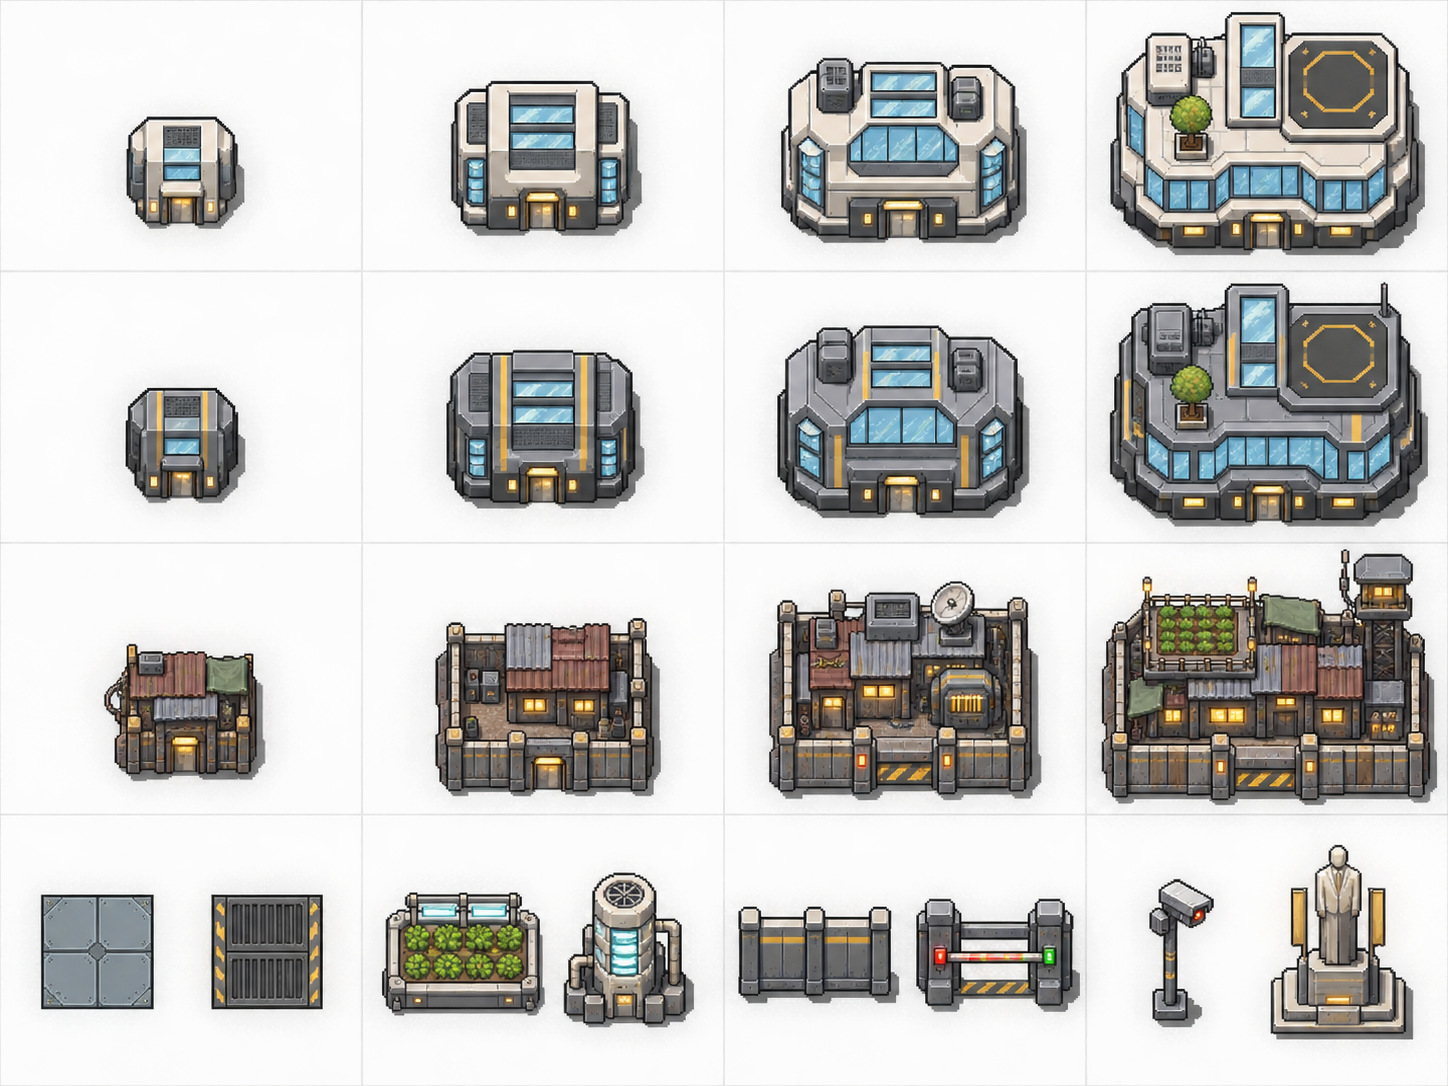
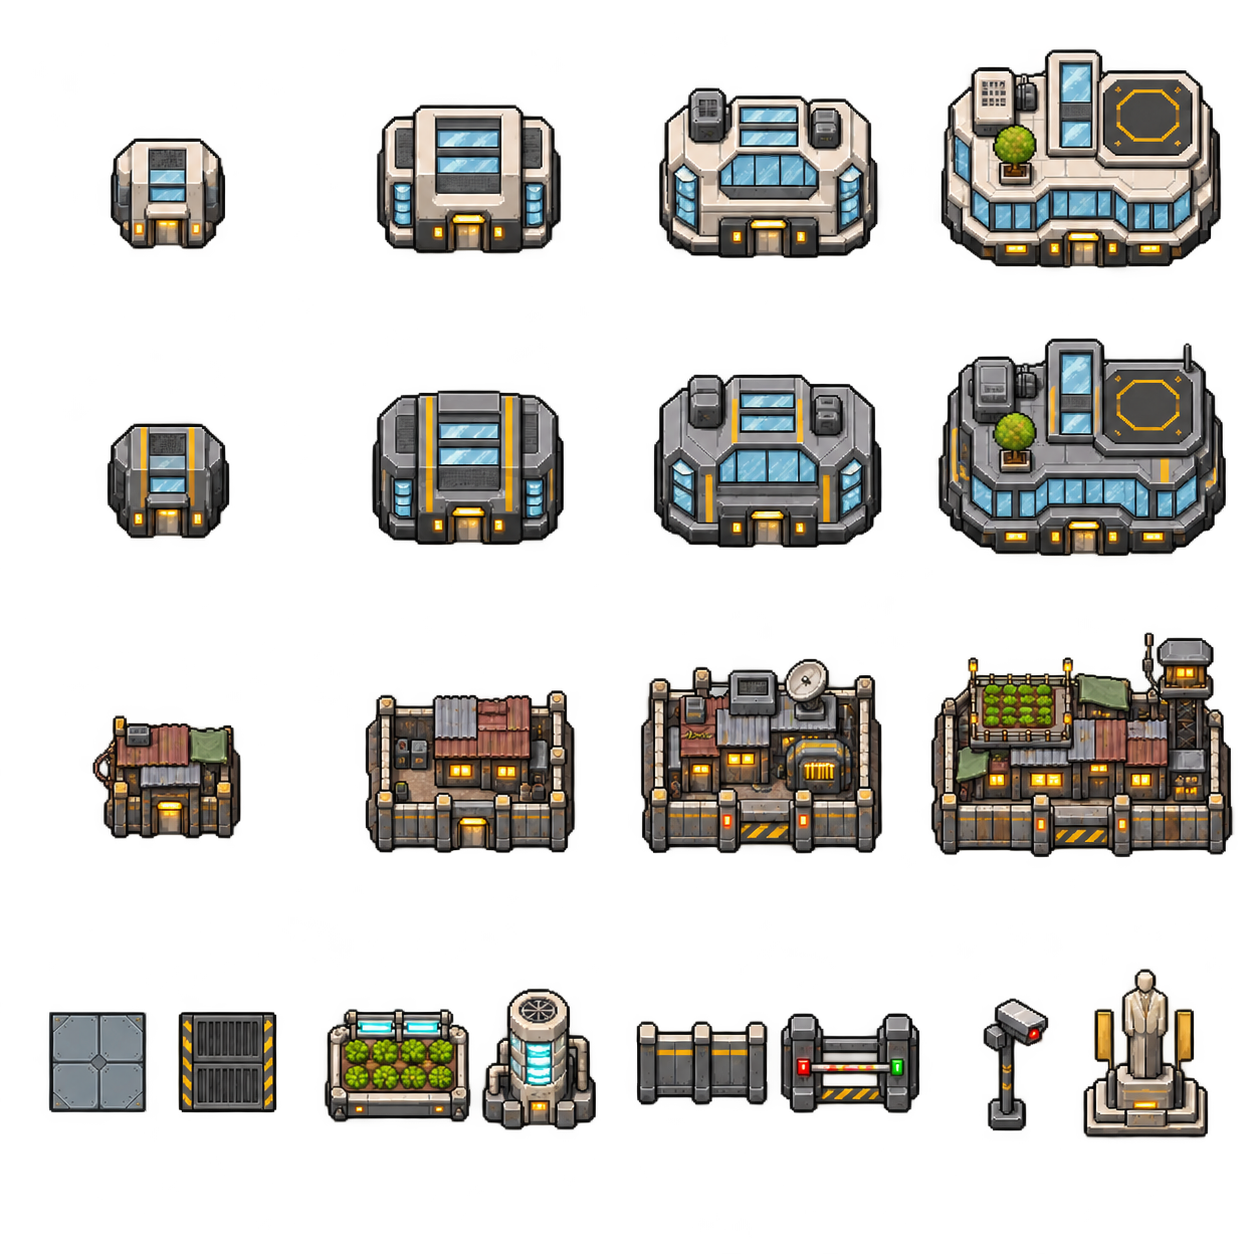
Art: transparent re-render of the housing sheet (no halo); slicer skips background removal when the sheet is transparent
Claude-Session: https://claude.ai/code/session_01Bh8AJWdcVLFR5ZpwLUM8bs

diff --git a/scripts/slice-assets.py b/scripts/slice-assets.py
@@ -137,6 +137,7 @@ for i, names in enumerate(EMBLEMS, 1):
 # This sheet came back on a light background with grid lines: flood-fill the background out first.
 a = sheet('sheet-housing.png').astype(int)
 H, W = a.shape[:2]
+transparent = (a[..., 3] < 20).mean() > 0.3  # re-generated sheet has a real transparent background
 rgb = a[..., :3]
 bgish = (rgb.min(-1) > 120) & ((rgb.max(-1) - rgb.min(-1)) < 16)  # background + soft drop shadow
 blab, _ = ndimage.label(bgish)
@@ -145,7 +146,8 @@ for k in range(1, 4):
     edge |= set(np.unique(blab[int(H * k / 4) - 2:int(H * k / 4) + 3].ravel()))
     edge |= set(np.unique(blab[:, int(W * k / 4) - 2:int(W * k / 4) + 3].ravel()))
 edge.discard(0)
-a[..., 3] = np.where(np.isin(blab, list(edge)), 0, 255)
+if not transparent:
+    a[..., 3] = np.where(np.isin(blab, list(edge)), 0, 255)
 a = a.astype(np.uint8)
 boxes, lab, _ = components(a, 4, minarea=1500)
 boxes.sort(key=lambda b: (int((b[0] + b[1]) / 2 // (H / 4)), b[2]))
